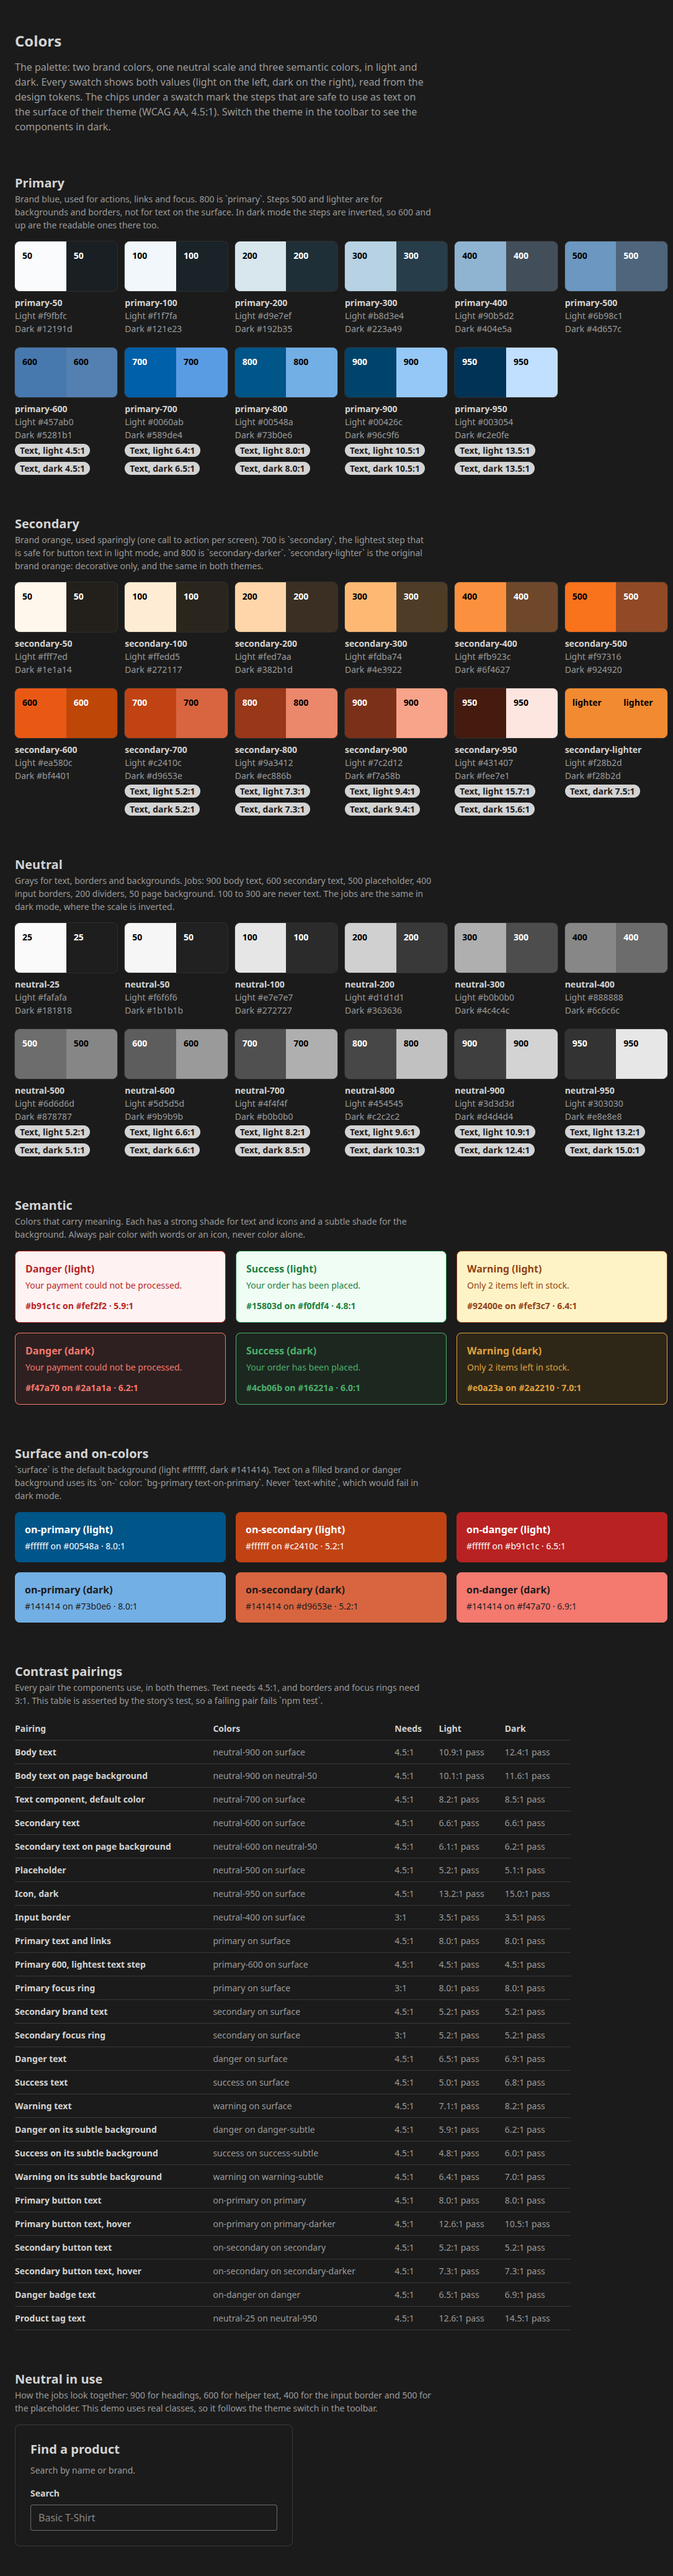
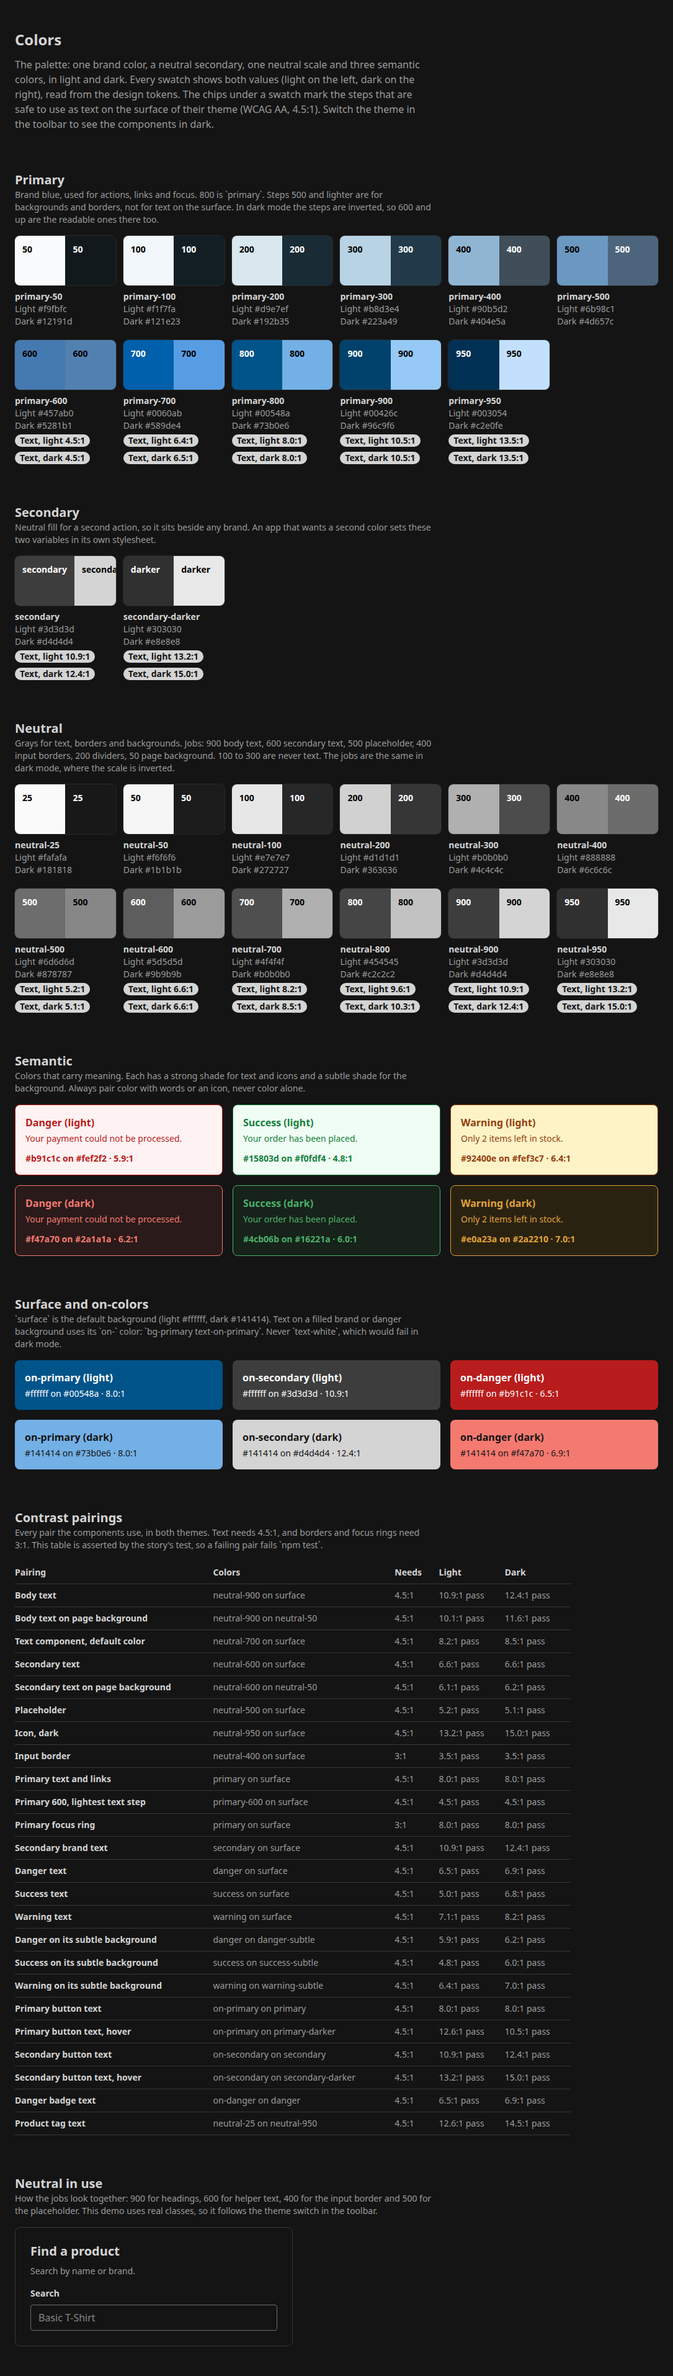
Make secondary a neutral color

diff --git a/src/components/Foundations/Colors/Colors.stories.tsx b/src/components/Foundations/Colors/Colors.stories.tsx
@@ -67,8 +67,8 @@ const ramps: Ramp[] = [
   {
     title: "Secondary",
     description:
-      "Brand orange, used sparingly (one call to action per screen). 700 is `secondary`, the lightest step that is safe for button text in light mode, and 800 is `secondary-darker`. `secondary-lighter` is the original brand orange: decorative only, and the same in both themes.",
-    tokens: [...steps("secondary", BRAND_STEPS), "secondary-lighter"],
+      "Neutral fill for a second action, so it sits beside any brand. An app that wants a second color sets these two variables in its own stylesheet.",
+    tokens: ["secondary", "secondary-darker"],
   },
   {
     title: "Neutral",
@@ -137,8 +137,12 @@ const pairings: Pairing[] = [
     min: AA_TEXT,
   },
   { label: "Primary focus ring", foreground: "primary", background: "surface", min: AA_UI },
-  { label: "Secondary brand text", foreground: "secondary", background: "surface", min: AA_TEXT },
-  { label: "Secondary focus ring", foreground: "secondary", background: "surface", min: AA_UI },
+  {
+    label: "Secondary color as text",
+    foreground: "secondary",
+    background: "surface",
+    min: AA_TEXT,
+  },
   { label: "Danger text", foreground: "danger", background: "surface", min: AA_TEXT },
   { label: "Success text", foreground: "success", background: "surface", min: AA_TEXT },
   { label: "Warning text", foreground: "warning", background: "surface", min: AA_TEXT },
@@ -564,11 +568,11 @@ const Colors: React.FC = () => {
       <header className={styles.intro()}>
         <h1 className={styles.title()}>Colors</h1>
         <p className={styles.lead()}>
-          The palette: two brand colors, one neutral scale and three semantic colors, in light and
-          dark. Every swatch shows both values (light on the left, dark on the right), read from the
-          design tokens. The chips under a swatch mark the steps that are safe to use as text on the
-          surface of their theme (WCAG AA, 4.5:1). Switch the theme in the toolbar to see the
-          components in dark.
+          The palette: one brand color, a neutral secondary, one neutral scale and three semantic
+          colors, in light and dark. Every swatch shows both values (light on the left, dark on the
+          right), read from the design tokens. The chips under a swatch mark the steps that are safe
+          to use as text on the surface of their theme (WCAG AA, 4.5:1). Switch the theme in the
+          toolbar to see the components in dark.
         </p>
       </header>
       {ramps.map((item) => (

diff --git a/src/styles/theme.css b/src/styles/theme.css
@@ -53,6 +53,7 @@
   --color-primary-lighter: light-dark(#0077cc, #4d94dc);
   --color-primary-darker: light-dark(#003366, #96c9f6);
 
+  /* Deprecated: the old orange ramp, no longer used by any component. Removed in 5.0.0. */
   --color-secondary-50: light-dark(#fff7ed, #1e1a14);
   --color-secondary-100: light-dark(#ffedd5, #272117);
   --color-secondary-200: light-dark(#fed7aa, #382b1d);
@@ -60,16 +61,18 @@
   --color-secondary-400: light-dark(#fb923c, #6f4627);
   --color-secondary-500: light-dark(#f97316, #924920);
   --color-secondary-600: light-dark(#ea580c, #bf4401);
-  --color-secondary-700: light-dark(
-    #c2410c,
-    #d9653e
-  ); /* same as DEFAULT; 5.2:1 with white, lightest step usable for text */
-  --color-secondary-800: light-dark(#9a3412, #ec886b); /* same as darker */
+  --color-secondary-700: light-dark(#c2410c, #d9653e);
+  --color-secondary-800: light-dark(#9a3412, #ec886b);
   --color-secondary-900: light-dark(#7c2d12, #f7a58b);
   --color-secondary-950: light-dark(#431407, #fee7e1);
-  --color-secondary: light-dark(#c2410c, #d9653e); /* 5.2:1 with white (WCAG AA) */
-  --color-secondary-lighter: #f28b2d; /* original brand orange: decorative use only, fails AA with white */
-  --color-secondary-darker: light-dark(#9a3412, #ec886b); /* 7.3:1 with white */
+  --color-secondary-lighter: #f28b2d;
+
+  /*
+    `secondary` is neutral, so it sits beside any brand. An app that wants a second color sets these
+    two variables in its own stylesheet, as it does for `primary`.
+  */
+  --color-secondary: light-dark(rgb(61 61 61), rgb(212 212 212));
+  --color-secondary-darker: light-dark(rgb(48 48 48), rgb(232 232 232));
 
   /*
     Semantic colors: the plain name is for text and icons on white or on `subtle` (all 4.5:1 or

diff --git a/src/components/Atoms/Button/Button.tsx b/src/components/Atoms/Button/Button.tsx
@@ -1,8 +1,9 @@
 import { buttonStyles } from "./buttonStyles.js";
 export interface ButtonProps extends React.ButtonHTMLAttributes<HTMLButtonElement> {
   /**
-   * The type of the button. `outline` is a neutral bordered button for secondary actions: it does
-   * not follow the brand colors, so it looks the same under any theme.
+   * The type of the button. `outline` is the default for a second action: it does not follow the
+   * brand colors, so it looks the same under any theme. `secondary` is a filled button with as much
+   * emphasis as `primary`, neutral unless the app sets its own color.
    */
   variant?: "primary" | "secondary" | "text" | "outline";
   /**

diff --git a/src/components/Atoms/ButtonLink/ButtonLink.tsx b/src/components/Atoms/ButtonLink/ButtonLink.tsx
@@ -7,8 +7,9 @@ export interface ButtonLinkProps {
   /** Link contents */
   children: React.ReactNode;
   /**
-   * The type of the button. `outline` is a neutral bordered button for secondary actions: it does
-   * not follow the brand colors, so it looks the same under any theme.
+   * The type of the button. `outline` is the default for a second action: it does not follow the
+   * brand colors, so it looks the same under any theme. `secondary` is a filled button with as much
+   * emphasis as `primary`, neutral unless the app sets its own color.
    */
   variant?: "primary" | "secondary" | "text" | "outline";
   /**

diff --git a/src/components/Foundations/Brands/Brands.stories.tsx b/src/components/Foundations/Brands/Brands.stories.tsx
@@ -43,6 +43,7 @@ export const Examples: Story = {
           </Text>
           <div className="flex gap-2">
             <Button>Primary</Button>
+            <Button variant="secondary">Secondary</Button>
             <Button variant="outline">Outline</Button>
           </div>
           <Input label="Email" name={`email-${brand.id}`} defaultValue="ana@example.com" />

diff --git a/src/components/Atoms/Spinner/spinnerMock.ts b/src/components/Atoms/Spinner/spinnerMock.ts
@@ -18,7 +18,7 @@ export const mockedSpinnerLarge: SpinnerProps = {
   color: "primary",
 };
 
-// Secondary color - alternative brand color
+// Secondary color - neutral unless the app sets its own
 export const mockedSpinnerSecondary: SpinnerProps = {
   size: "medium",
   color: "secondary",

diff --git a/src/styles/CLAUDE.md b/src/styles/CLAUDE.md
@@ -10,9 +10,9 @@ Rules for `src/styles/`. The root `CLAUDE.md` still applies. The `tv()` and tail
   they would drift:
   - Brand colors:
     - `primary` (also `-50..950`; `-600` is the lightest step usable as text on white).
-    - `secondary` (also `-50..950`; `-700` is `DEFAULT` and the lightest step usable as text on
-      white; `-800` is `darker`). `secondary-lighter` is the original brand orange and fails
-      contrast with white text: decorative use only.
+    - `secondary` and `secondary-darker` are neutral, so they sit beside any brand. An app sets its own
+      second color through these two variables. The `-50..950` ramp and `secondary-lighter` are
+      deprecated, used by no component, and removed in 5.0.0.
   - Semantic colors: `danger`, `success`, `warning`, each with `DEFAULT` (text/icons) and
     `subtle` (background). Use them instead of Tailwind's `red-*` / `green-*` / `yellow-*`,
     and never rely on color alone.
